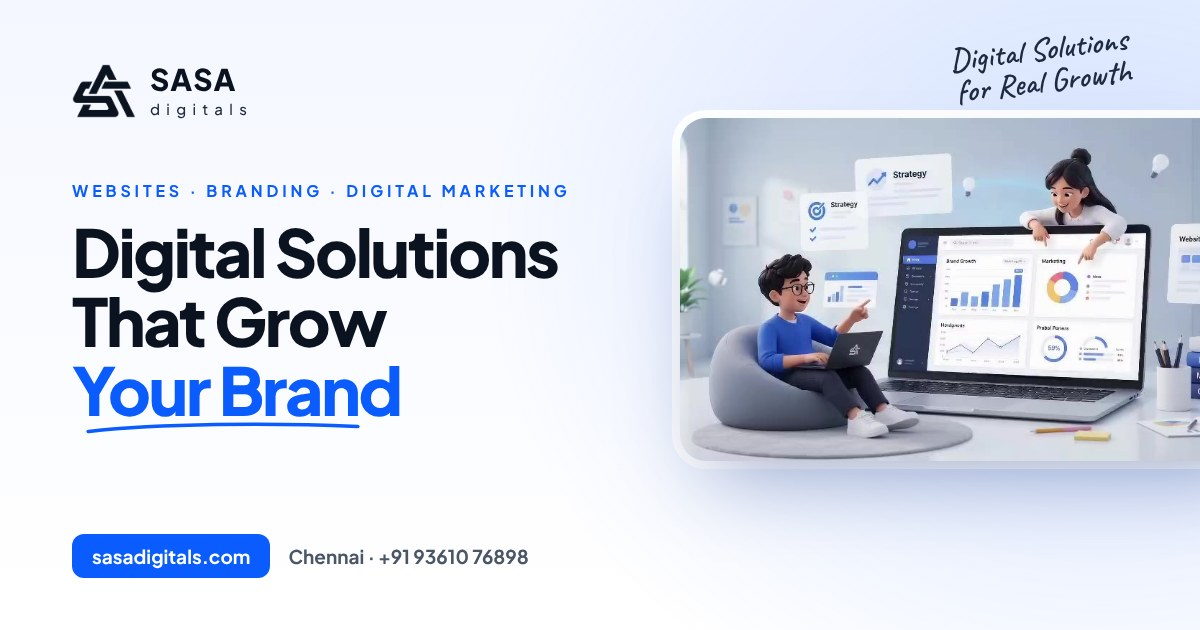
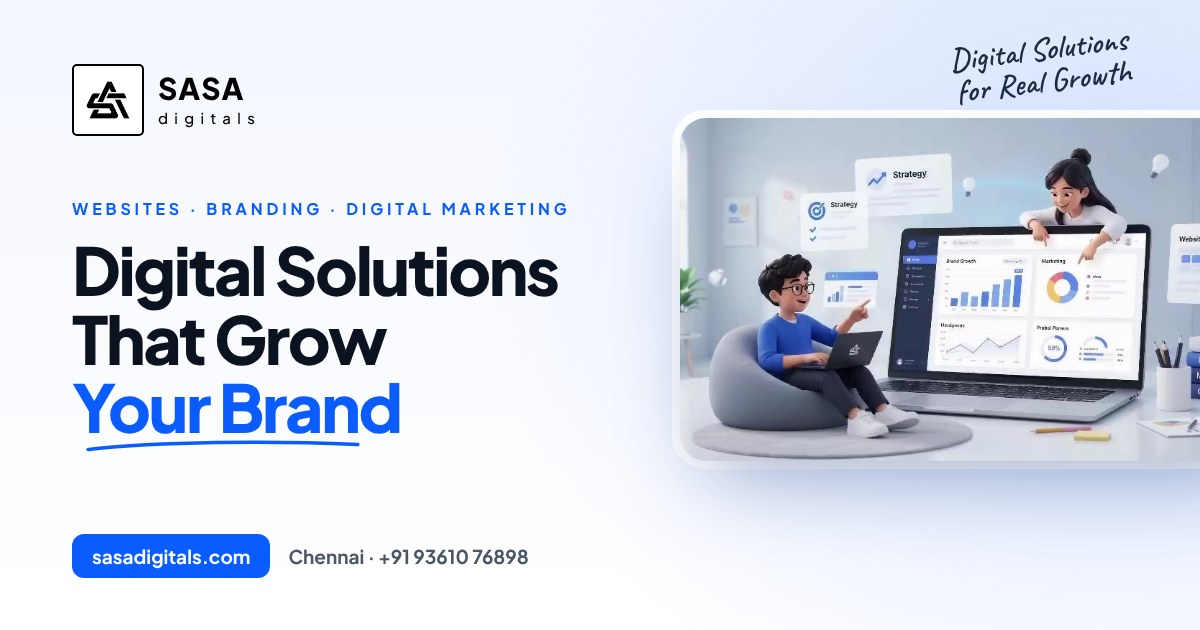
Update pricing

Changed region(s): [[0.0617, 0.2714, 0.4933, 0.7238], [0.0617, 0.0905, 0.2158, 0.2413]]

diff --git a/index.html b/index.html
@@ -19,7 +19,7 @@
 <meta name="twitter:title" content="Sasa Digitals — Digital Solutions That Grow Your Brand">
 <meta name="twitter:description" content="Websites, branding and digital marketing for brands ready to grow.">
 <meta name="twitter:image" content="https://www.sasadigitals.com/assets/og-image.jpg">
-<link rel="icon" type="image/png" href="assets/logo-navy.png">
+<link rel="icon" type="image/png" href="assets/logo-black.png">
 <link rel="preconnect" href="https://fonts.googleapis.com">
 <link rel="stylesheet" href="https://fonts.googleapis.com/css2?family=Plus+Jakarta+Sans:wght@400;500;600;700;800&amp;family=Caveat:wght@600&amp;display=swap">
 <style>
@@ -63,11 +63,11 @@ input:focus{outline:2px solid #0A5CFF;outline-offset:2px}
 <!-- NAV -->
 <header style="position: sticky; top: 0; z-index: 50; background: rgba(255,255,255,.82); backdrop-filter: blur(14px); -webkit-backdrop-filter: blur(14px); border-bottom: 1px solid rgba(11,18,32,.06)">
 <nav aria-label="Primary" style="max-width: 1240px; margin: 0 auto; padding: 14px 24px; display: flex; align-items: center; justify-content: space-between; gap: 24px">
-<a href="#top" aria-label="Sasa Digitals home" style="display: flex; align-items: center; gap: 12px; color: #0B1220">
-<img src="assets/logo-navy.png" alt="" style="width: 52px; height: auto; display: block">
+<a href="#top" aria-label="Sasa Digitals home" style="display: flex; align-items: center; gap: 12px; color: #000000">
+<span style="width: 56px; height: 56px; border-radius: 12px; border: 1.5px solid #000000; background: #FFFFFF; box-sizing: border-box; display: flex; align-items: center; justify-content: center; flex: none"><img src="assets/logo-black.png" alt="" style="width: 34px; height: auto; display: block"></span>
 <span style="display: flex; flex-direction: column; line-height: 1">
 <span style="font-weight: 800; font-size: 24px; letter-spacing: .04em">SASA</span>
-<span style="margin-top: 4px; font-weight: 500; font-size: 13px; letter-spacing: .42em; color: #1E2A3D">digitals</span>
+<span style="margin-top: 4px; font-weight: 500; font-size: 13px; letter-spacing: .42em; color: #000000">digitals</span>
 </span>
 </a>
 <div class="nav-links" style="display: flex; align-items: center; gap: 44px; font-size: 16px; font-weight: 500">
@@ -316,7 +316,7 @@ input:focus{outline:2px solid #0A5CFF;outline-offset:2px}
 <p style="margin: 8px 0 0; font-size: 15px; color: #4B5568">A sharp, credible web presence.</p>
 </div>
 <div>
-<div style="display: flex; align-items: baseline; flex-wrap: wrap; gap: 6px"><span style="font-size: 44px; font-weight: 800; letter-spacing: -0.03em">₹35,000</span><span style="color: #4B5568; font-size: 15px">one-time</span></div>
+<div style="display: flex; align-items: baseline; flex-wrap: wrap; gap: 6px"><span style="font-size: 44px; font-weight: 800; letter-spacing: -0.03em">₹45,000</span><span style="color: #4B5568; font-size: 15px">one-time</span></div>
 <div style="margin-top: 4px; font-size: 13px; color: #5B6577">3–5 page website</div>
 </div>
 <ul style="margin: 0; padding: 0; list-style: none; display: flex; flex-direction: column; gap: 13px; flex: 1; font-size: 15px; line-height: 1.45; color: #1E2A3D">
@@ -349,7 +349,7 @@ input:focus{outline:2px solid #0A5CFF;outline-offset:2px}
 <p style="margin: 8px 0 0; font-size: 15px; color: #4B5568">Full brand identity and a site built to convert.</p>
 </div>
 <div>
-<div style="display: flex; align-items: baseline; flex-wrap: wrap; gap: 6px"><span style="font-size: 44px; font-weight: 800; letter-spacing: -0.03em">₹69,000</span><span style="color: #4B5568; font-size: 15px">one-time</span></div>
+<div style="display: flex; align-items: baseline; flex-wrap: wrap; gap: 6px"><span style="font-size: 44px; font-weight: 800; letter-spacing: -0.03em">₹79,000</span><span style="color: #4B5568; font-size: 15px">one-time</span></div>
 <div style="margin-top: 4px; font-size: 13px; color: #5B6577">5–8 page website</div>
 </div>
 <ul style="margin: 0; padding: 0; list-style: none; display: flex; flex-direction: column; gap: 13px; flex: 1; font-size: 15px; line-height: 1.45; color: #1E2A3D">
@@ -382,7 +382,7 @@ input:focus{outline:2px solid #0A5CFF;outline-offset:2px}
 <p style="margin: 8px 0 0; font-size: 15px; color: #4B5568">Identity, strategy and a custom-built experience.</p>
 </div>
 <div>
-<div style="display: flex; align-items: baseline; flex-wrap: wrap; gap: 6px"><span style="font-size: 44px; font-weight: 800; letter-spacing: -0.03em">₹1,25,000</span><span style="color: #4B5568; font-size: 15px">one-time</span></div>
+<div style="display: flex; align-items: baseline; flex-wrap: wrap; gap: 6px"><span style="font-size: 44px; font-weight: 800; letter-spacing: -0.03em">₹1,35,000</span><span style="color: #4B5568; font-size: 15px">one-time</span></div>
 <div style="margin-top: 4px; font-size: 13px; color: #5B6577">8–12 page website</div>
 </div>
 <ul style="margin: 0; padding: 0; list-style: none; display: flex; flex-direction: column; gap: 13px; flex: 1; font-size: 15px; line-height: 1.45; color: #1E2A3D">
@@ -415,7 +415,7 @@ input:focus{outline:2px solid #0A5CFF;outline-offset:2px}
 <p style="margin: 8px 0 0; font-size: 15px; color: #4B5568">Consistent social presence on Meta.</p>
 </div>
 <div>
-<div style="display: flex; align-items: baseline; flex-wrap: wrap; gap: 6px"><span style="font-size: 44px; font-weight: 800; letter-spacing: -0.03em">₹20,000</span><span style="color: #4B5568; font-size: 15px">/month</span></div>
+<div style="display: flex; align-items: baseline; flex-wrap: wrap; gap: 6px"><span style="font-size: 44px; font-weight: 800; letter-spacing: -0.03em">₹30,000</span><span style="color: #4B5568; font-size: 15px">/month</span></div>
 <div style="margin-top: 4px; font-size: 13px; color: #5B6577">Billed monthly</div>
 </div>
 <ul style="margin: 0; padding: 0; list-style: none; display: flex; flex-direction: column; gap: 13px; flex: 1; font-size: 15px; line-height: 1.45; color: #1E2A3D">
@@ -454,7 +454,7 @@ input:focus{outline:2px solid #0A5CFF;outline-offset:2px}
 <p style="margin: 8px 0 0; font-size: 15px; color: #4B5568">Paid ads and lead generation that compound.</p>
 </div>
 <div>
-<div style="display: flex; align-items: baseline; flex-wrap: wrap; gap: 6px"><span style="font-size: 44px; font-weight: 800; letter-spacing: -0.03em">₹35,000</span><span style="color: #4B5568; font-size: 15px">/month</span></div>
+<div style="display: flex; align-items: baseline; flex-wrap: wrap; gap: 6px"><span style="font-size: 44px; font-weight: 800; letter-spacing: -0.03em">₹45,000</span><span style="color: #4B5568; font-size: 15px">/month</span></div>
 <div style="margin-top: 4px; font-size: 13px; color: #5B6577">Billed monthly</div>
 </div>
 <ul style="margin: 0; padding: 0; list-style: none; display: flex; flex-direction: column; gap: 13px; flex: 1; font-size: 15px; line-height: 1.45; color: #1E2A3D">
@@ -493,7 +493,7 @@ input:focus{outline:2px solid #0A5CFF;outline-offset:2px}
 <p style="margin: 8px 0 0; font-size: 15px; color: #4B5568">Full-funnel Meta + Google campaigns.</p>
 </div>
 <div>
-<div style="display: flex; align-items: baseline; flex-wrap: wrap; gap: 6px"><span style="font-size: 44px; font-weight: 800; letter-spacing: -0.03em">₹60,000</span><span style="color: #4B5568; font-size: 15px">/month</span></div>
+<div style="display: flex; align-items: baseline; flex-wrap: wrap; gap: 6px"><span style="font-size: 44px; font-weight: 800; letter-spacing: -0.03em">₹70,000</span><span style="color: #4B5568; font-size: 15px">/month</span></div>
 <div style="margin-top: 4px; font-size: 13px; color: #5B6577">Billed monthly</div>
 </div>
 <ul style="margin: 0; padding: 0; list-style: none; display: flex; flex-direction: column; gap: 13px; flex: 1; font-size: 15px; line-height: 1.45; color: #1E2A3D">
@@ -530,8 +530,8 @@ input:focus{outline:2px solid #0A5CFF;outline-offset:2px}
 <div style="margin-top: 32px; display: flex; flex-wrap: wrap; gap: 24px; align-items: center; justify-content: space-between; padding: 30px 34px; border-radius: 24px; background: #0B1220; color: #FFFFFF">
 <div style="flex: 1 1 320px; min-width: 0">
 <div style="font-size: 12px; font-weight: 700; letter-spacing: .14em; text-transform: uppercase; color: #7FA8FF">Recommended combo</div>
-<div style="margin-top: 8px; font-size: 22px; font-weight: 700; line-height: 1.35">Premium Website ₹69,000 + Growth Marketing ₹35,000/month</div>
-<div style="margin-top: 6px; font-size: 15px; color: #A8B3C7">First month ≈ ₹1,24,000 incl. ₹20,000 illustrative ad spend · then ≈ ₹55,000/month</div>
+<div style="margin-top: 8px; font-size: 22px; font-weight: 700; line-height: 1.35">Premium Website ₹79,000 + Growth Marketing ₹45,000/month</div>
+<div style="margin-top: 6px; font-size: 15px; color: #A8B3C7">First month ≈ ₹1,44,000 incl. ₹20,000 illustrative ad spend · then ≈ ₹65,000/month</div>
 </div>
 <a class="btn btn-primary" href="#contact" style="padding: 16px 28px; border-radius: 14px; background: #0A5CFF; color: #FFFFFF; font-weight: 600">Get a Proposal</a>
 </div>
@@ -550,7 +550,7 @@ input:focus{outline:2px solid #0A5CFF;outline-offset:2px}
 <div style="display: flex; flex-wrap: wrap; gap: 48px; justify-content: space-between">
 <div style="flex: 1 1 260px; min-width: 0; display: flex; flex-direction: column; gap: 20px; max-width: 320px">
 <div style="display: flex; align-items: center; gap: 12px">
-<img src="assets/logo-white.png" alt="" style="width: 52px; height: auto; display: block">
+<span style="width: 56px; height: 56px; border-radius: 12px; border: 1.5px solid #000000; background: #FFFFFF; box-sizing: border-box; display: flex; align-items: center; justify-content: center; flex: none"><img src="assets/logo-black.png" alt="" style="width: 34px; height: auto; display: block"></span>
 <span style="display: flex; flex-direction: column; line-height: 1"><span style="font-weight: 800; font-size: 24px; letter-spacing: .04em">SASA</span><span style="margin-top: 4px; font-weight: 500; font-size: 13px; letter-spacing: .42em; color: #C9D2E3">digitals</span></span>
 </div>
 <p style="margin: 0; font-size: 15px; line-height: 1.6; color: #A8B3C7">Websites, branding and digital marketing for brands ready to grow.</p>
@@ -574,9 +574,8 @@ input:focus{outline:2px solid #0A5CFF;outline-offset:2px}
 <div style="font-size: 13px; font-weight: 700; letter-spacing: .12em; text-transform: uppercase; color: #FFFFFF">Contact</div>
 <a class="flink" href="tel:+919361076898" style="display: flex; gap: 12px; align-items: flex-start"><svg width="20" height="20" viewBox="0 0 24 24" fill="none" stroke="#7FA8FF" stroke-width="2" stroke-linecap="round" stroke-linejoin="round" aria-hidden="true" style="flex: none"><path d="M22 16.9v3a2 2 0 01-2.2 2 19.8 19.8 0 01-8.6-3.1 19.5 19.5 0 01-6-6A19.8 19.8 0 012.1 4.2 2 2 0 014.1 2h3a2 2 0 012 1.7c.1.9.4 1.8.7 2.7a2 2 0 01-.5 2.1L8 9.8a16 16 0 006 6l1.3-1.3a2 2 0 012.1-.5c.9.3 1.8.6 2.7.7a2 2 0 011.7 2z"></path></svg>+91 93610 76898</a>
 <a class="flink" href="https://wa.me/919361076898" target="_blank" rel="noopener" style="display: flex; gap: 12px; align-items: flex-start"><svg width="20" height="20" viewBox="0 0 24 24" fill="none" stroke="#25D366" stroke-width="2" stroke-linecap="round" stroke-linejoin="round" aria-hidden="true" style="flex: none"><path d="M3 21l1.7-5A8.5 8.5 0 1112 20.5a8.4 8.4 0 01-4-1L3 21z"></path></svg>WhatsApp +91 93610 76898</a>
-<a class="flink" href="mailto:hello@sasadigital.com" style="display: flex; gap: 12px; align-items: flex-start"><svg width="20" height="20" viewBox="0 0 24 24" fill="none" stroke="#7FA8FF" stroke-width="2" stroke-linecap="round" stroke-linejoin="round" aria-hidden="true" style="flex: none"><rect x="2" y="4" width="20" height="16" rx="2"></rect><path d="M22 6l-10 7L2 6"></path></svg>hello@sasadigital.com</a>
-<div style="display: flex; gap: 12px; align-items: flex-start; line-height: 1.6"><svg width="20" height="20" viewBox="0 0 24 24" fill="none" stroke="#7FA8FF" stroke-width="2" stroke-linecap="round" stroke-linejoin="round" aria-hidden="true" style="flex: none; margin-top: 2px"><path d="M12 22s7-6.2 7-12a7 7 0 10-14 0c0 5.8 7 12 7 12z"></path><circle cx="12" cy="10" r="2.5"></circle></svg><span><strong style="display: block; margin-bottom: 2px; font-size: 12px; font-weight: 700; letter-spacing: .1em; text-transform: uppercase; color: #FFFFFF">Corporate Office</strong>No:10B, Ekambaram Naicker Street,<br>1st Main Road, Valasaravakkam,<br>Chennai – 600116</span></div>
-<div style="display: flex; gap: 12px; align-items: flex-start; line-height: 1.6"><svg width="20" height="20" viewBox="0 0 24 24" fill="none" stroke="#7FA8FF" stroke-width="2" stroke-linecap="round" stroke-linejoin="round" aria-hidden="true" style="flex: none; margin-top: 2px"><path d="M12 22s7-6.2 7-12a7 7 0 10-14 0c0 5.8 7 12 7 12z"></path><circle cx="12" cy="10" r="2.5"></circle></svg><span><strong style="display: block; margin-bottom: 2px; font-size: 12px; font-weight: 700; letter-spacing: .1em; text-transform: uppercase; color: #FFFFFF">Branch Office</strong>No. 17/11, First Floor,<br>SivaShanmugam Street, Tambaram West,<br>Chennai – 600045</span></div>
+<a class="flink" href="mailto:hello@sasadigitals.com" style="display: flex; gap: 12px; align-items: flex-start"><svg width="20" height="20" viewBox="0 0 24 24" fill="none" stroke="#7FA8FF" stroke-width="2" stroke-linecap="round" stroke-linejoin="round" aria-hidden="true" style="flex: none"><rect x="2" y="4" width="20" height="16" rx="2"></rect><path d="M22 6l-10 7L2 6"></path></svg>hello@sasadigitals.com</a>
+<div style="display: flex; gap: 12px; align-items: flex-start; line-height: 1.6"><svg width="20" height="20" viewBox="0 0 24 24" fill="none" stroke="#7FA8FF" stroke-width="2" stroke-linecap="round" stroke-linejoin="round" aria-hidden="true" style="flex: none; margin-top: 2px"><path d="M12 22s7-6.2 7-12a7 7 0 10-14 0c0 5.8 7 12 7 12z"></path><circle cx="12" cy="10" r="2.5"></circle></svg><span><strong style="display: block; margin-bottom: 2px; font-size: 12px; font-weight: 700; letter-spacing: .1em; text-transform: uppercase; color: #FFFFFF">Branch Office</strong>No. 17/11, Fourth Floor,<br>SivaShanmugam Street, Tambaram West,<br>Chennai – 600045</span></div>
 </div>
 </div>
 <div style="display: flex; flex-wrap: wrap; justify-content: space-between; gap: 12px; padding-top: 24px; border-top: 1px solid rgba(255,255,255,.1); font-size: 14px; color: #A8B3C7">
